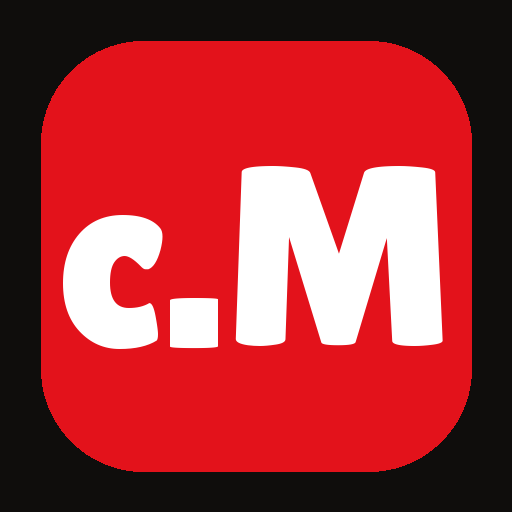
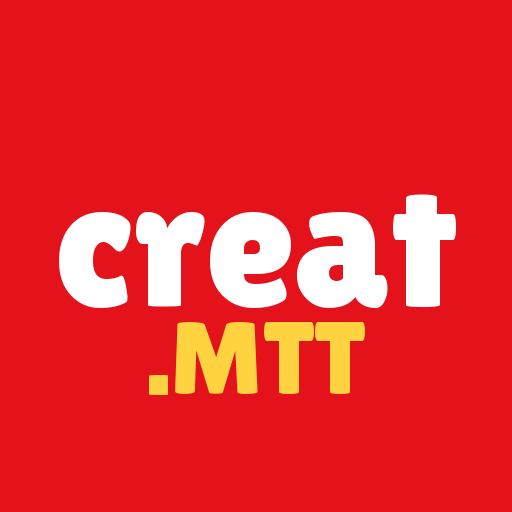
Pagina de entregas: modo minimal-ui (sem tela presa), layout em 2 colunas, icones novos
Claude-Session: https://claude.ai/code/session_01LA2wrNeHVEWRN2orTqPTUo

diff --git a/projetos/creat-nuvem/scripts/r2/painel.html b/projetos/creat-nuvem/scripts/r2/painel.html
@@ -1,19 +1,19 @@
 <!doctype html>
-<html lang="pt-BR"><head><meta charset="utf-8"><meta name="viewport" content="width=device-width,initial-scale=1">
-<title>Entregas creat.MTT</title><meta name="robots" content="noindex"><link rel="manifest" href="manifest.webmanifest"><link rel="icon" href="icone-192.png"><link rel="apple-touch-icon" href="icone-192.png"><meta name="theme-color" content="#e3121b">
+<html lang="pt-BR"><head><meta charset="utf-8"><meta name="viewport" content="width=device-width,initial-scale=1,viewport-fit=cover">
+<title>Entregas creat.MTT</title><meta name="robots" content="noindex"><link rel="manifest" href="manifest.webmanifest"><link rel="icon" href="icone-192.png"><link rel="apple-touch-icon" href="icone-180.png"><meta name="apple-mobile-web-app-title" content="Entregas"><meta name="theme-color" content="#e3121b">
 <style>
 :root{--bg:#0f0d0c;--card:#1b1716;--tx:#f6efe9;--mut:#a89c94;--ac:#e3121b;--y:#ffd23f}
-*{box-sizing:border-box;margin:0}body{background:var(--bg);color:var(--tx);font:16px/1.45 system-ui,-apple-system,Segoe UI,Roboto,sans-serif;padding:20px 16px 60px}
+*{box-sizing:border-box;margin:0}body{background:var(--bg);color:var(--tx);font:16px/1.45 system-ui,-apple-system,Segoe UI,Roboto,sans-serif;padding:max(16px,env(safe-area-inset-top)) max(12px,env(safe-area-inset-right)) 60px max(12px,env(safe-area-inset-left))}
 header{max-width:960px;margin:0 auto 22px;display:flex;justify-content:space-between;align-items:baseline;gap:12px;flex-wrap:wrap}
-h1{font-size:26px;letter-spacing:-.02em}h1 b{color:var(--ac)}#at{color:var(--mut);font-size:13px}
+h1{font-size:22px;letter-spacing:-.02em}h1 b{color:var(--ac)}#at{color:var(--mut);font-size:13px}
 main{max-width:960px;margin:0 auto}h2{font-size:13px;letter-spacing:.14em;text-transform:uppercase;color:var(--y);margin:26px 0 10px}
-.proj{background:var(--card);border-radius:14px;padding:14px;margin-bottom:12px}
+.proj{background:var(--card);border-radius:14px;padding:12px;margin-bottom:12px}
 .proj h3{font-size:17px;margin-bottom:10px}.proj h3 span{color:var(--mut);font-weight:400;font-size:13px;margin-left:8px}
-.itens{display:grid;grid-template-columns:repeat(auto-fill,minmax(200px,1fr));gap:12px}
+.itens{display:grid;grid-template-columns:repeat(2,minmax(0,1fr));gap:10px;align-items:start}@media(min-width:700px){.itens{grid-template-columns:repeat(auto-fill,minmax(200px,1fr))}}
 .it{background:#251f1d;border-radius:10px;overflow:hidden;display:flex;flex-direction:column}
 .it video,.it img{width:100%;aspect-ratio:9/16;object-fit:cover;background:#000;display:block}
-.it .n{padding:8px 10px 2px;font-size:13px;word-break:break-all}.it .m{padding:0 10px;color:var(--mut);font-size:12px}
-.it a{margin:8px 10px 10px;text-align:center;background:var(--ac);color:#fff;text-decoration:none;border-radius:8px;padding:8px;font-weight:600;font-size:14px}
+.it .n{padding:8px 10px 2px;font-size:12px;word-break:break-all;line-height:1.3}.it .m{padding:0 10px;color:var(--mut);font-size:12px}
+.it a{margin:8px 10px 10px;text-align:center;background:var(--ac);color:#fff;text-decoration:none;border-radius:8px;padding:11px 8px;font-weight:700;font-size:14px;min-height:44px}
 #vazio{color:var(--mut)}
 #bq{max-width:960px;margin:0 auto 6px;display:flex;gap:8px}#bq input{flex:1;background:var(--card);border:1px solid #3a302d;color:var(--tx);border-radius:10px;padding:10px 12px;font-size:16px}
 .leg{margin-top:12px;background:#251f1d;border-radius:10px;padding:10px 12px;font-size:14px;white-space:pre-wrap}.leg button,.st button{background:var(--y);color:#241612;border:0;border-radius:8px;padding:7px 12px;font-weight:700;font-size:13px;margin-top:8px;cursor:pointer}
@@ -48,7 +48,7 @@ Promise.all([fetch(IDX,{cache:"no-store"}).then(r=>r.json()),fetch(META,{cache:"
         const md=/\.(mp4|mov|webm)$/i.test(f)?Object.assign(document.createElement("video"),{src:u,controls:true,preload:"metadata",playsInline:true}):/\.(jpe?g|png|webp)$/i.test(f)?Object.assign(document.createElement("img"),{src:u,loading:"lazy",alt:f}):null;
         if(md)d2.append(md);
         const n=document.createElement("div");n.className="n";n.textContent=f;const mm=document.createElement("div");mm.className="m";mm.textContent=mb(it.t)+" · original, sem recompressão";
-        const a=Object.assign(document.createElement("a"),{href:u,download:f,target:"_blank",rel:"noopener",textContent:"Baixar"});
+        const a=Object.assign(document.createElement("a"),{href:u,download:f,target:"_blank",rel:"noopener",textContent:/\.(mp4|mov)$/i.test(f)?"Baixar vídeo":"Baixar capa"});
         d2.append(n,mm,a);g.append(d2);
       }
       box.append(g);

diff --git a/projetos/creat-nuvem/scripts/r2/sw.js b/projetos/creat-nuvem/scripts/r2/sw.js
@@ -1,2 +1,3 @@
 self.addEventListener("install",e=>self.skipWaiting());
 self.addEventListener("fetch",()=>{});
+// v3
